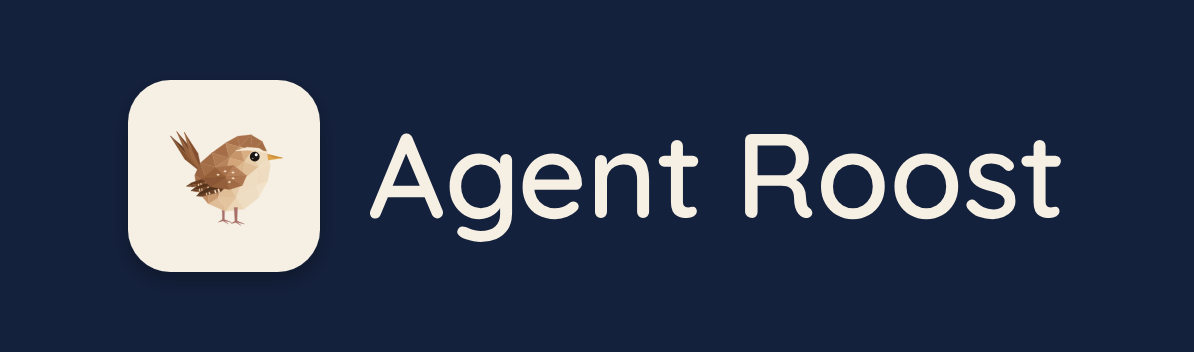
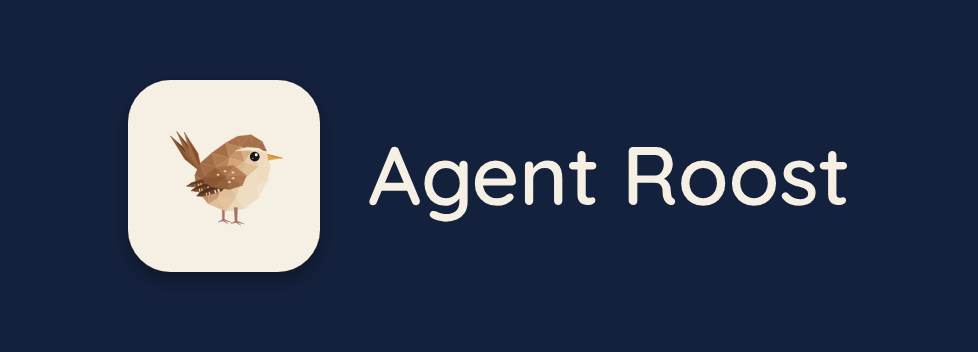
Brand: lockups at duoTemp's sizes, 361x96 and 489x176 on a panel
trough.dev shows the apps' lockups side by side, and Agent Roost's wider
one was clipped on the home page card. The wordmark is now sized to fill
the 361 px lockup next to the 96 px icon (about 41.5 px type), and the
panel versions keep the same 64 and 40 px padding as duoTemp's.

Changed region(s): [[0.092, 0.2188, 0.8896, 0.7812]]

diff --git a/brand/build_brand.py b/brand/build_brand.py
@@ -29,6 +29,7 @@ CHROME = "/Applications/Google Chrome.app/Contents/MacOS/Google Chrome"
 
 NAVY, CREAM = "#14213D", "#F6F0E4"
 TILE, CORNER = 512, 113  # the source tile and its corner radius
+LOCKUP_W = 361  # the lockup without a panel: duoTemp's, 96 px icon and the wordmark
 TITLE = "Agent Roost"
 
 
@@ -130,9 +131,12 @@ def lockup_svg(text_colour, background=None, edge=False):
     """Icon, then 'Agent Roost' with its capitals centred on the icon. Transparent by default; with a
     background it sits centred on a padded panel, the icon lifted by a soft shadow."""
     icon, gap = 96, 24
-    # the capitals are about 0.7 of the size: centre them on the icon's middle.
-    path, end, _ = words(icon + gap, icon / 2 + 21)
-    content_width = math.ceil(end)
+    # The wordmark is sized so the lockup is LOCKUP_W wide, duoTemp's width, so the two line up side by side;
+    # its capitals (about 0.7 of the size) are centred on the icon's middle.
+    _, end, _ = words(0, 0)
+    size = 60 * (LOCKUP_W - icon - gap) / end
+    path, end, _ = words(icon + gap, icon / 2 + size * 0.35, size)
+    content_width = LOCKUP_W
     pad_x, pad_y = (64, 40) if background else (0, 0)
     width, height = content_width + pad_x * 2, icon + pad_y * 2
     panel, shadow, lift = "", "", ""
